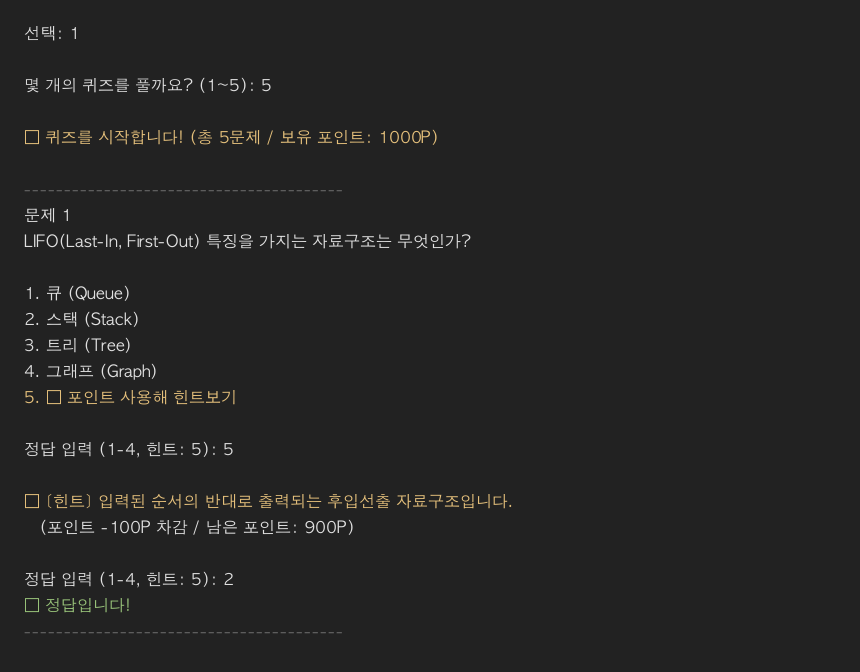
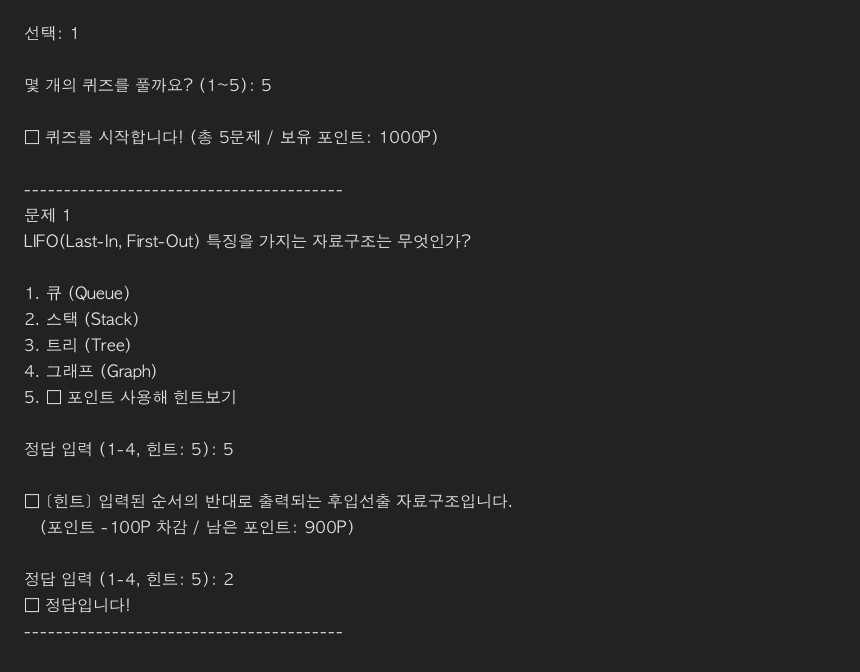
Style: 터미널 단일 기본 텍스트 색상(Plain monochrome)으로 스크린샷 4종 갱신

diff --git a/E1/2/README.md b/E1/2/README.md
@@ -10,20 +10,20 @@
 본 프로젝트는 Python 콘솔 기반의 인터랙티브 CS(Computer Science) 퀴즈 프로그램입니다.  
 단순한 일회성 프로그램을 넘어, **단일 책임 원칙(SRP)**에 따른 모듈화 구조와 **데이터 영속성**을 제공하며 다음과 같은 기술적 특징을 가지고 있습니다.
 
-* **외부 라이브러리 Zero (100% Standard Library)**: Python 3.10+ 순수 표준 라이브러리로만 구현
-* **모듈화 아키텍처 (Layered Architecture)**: 
-  * 최상위 진입점: `main.py`
-  * 도메인 logic 패키지: `components/` (`Quiz`, `QuizGame`, `BonusQuizGame`)
-  * 입출력 유틸리티 패키지: `utils/` (`InputUtils`, `OutputUtils`)
-* **I/O 렌더링 최적화**: 콘솔 출력을 1회 문자열 결합(`\n.join`) 후 단 1회 버퍼 출력하여 콘솔 I/O 시스템 콜 오버헤드 최소화
-* **강력한 데이터 영속성 & 자동 복구**: `state.json`을 통해 퀴즈 목록과 최고 점수를 유지하며, 파일 손상 시 기본 데이터로 자동 초기화/복구
+- **외부 라이브러리 Zero (100% Standard Library)**: Python 3.10+ 순수 표준 라이브러리로만 구현
+- **모듈화 아키텍처 (Layered Architecture)**:
+  - 최상위 진입점: `main.py`
+  - 도메인 logic 패키지: `components/` (`Quiz`, `QuizGame`, `BonusQuizGame`)
+  - 입출력 유틸리티 패키지: `utils/` (`InputUtils`, `OutputUtils`)
+- **I/O 렌더링 최적화**: 콘솔 출력을 1회 문자열 결합(`\n.join`) 후 단 1회 버퍼 출력하여 콘솔 I/O 시스템 콜 오버헤드 최소화
+- **강력한 데이터 영속성 & 자동 복구**: `state.json`을 통해 퀴즈 목록과 최고 점수를 유지하며, 파일 손상 시 기본 데이터로 자동 초기화/복구
 
 ---
 
 ## 💡 2. 퀴즈 주제 및 선정 이유
 
-* **주제**: CS (Computer Science) 기초 지식 (자료구조, 네트워크, DB, 운영체제, 알고리즘)
-* **선정 이유**: 개발자 입문 과정에서 컴퓨터 과학 핵심 기본기를 점검하고 체화하는 것이 무엇보다 중요하다고 판단하여 선정하였습니다.
+- **주제**: CS (Computer Science) 기초 지식 (자료구조, 네트워크, DB, 운영체제, 알고리즘)
+- **선정 이유**: 개발자 입문 과정에서 컴퓨터 과학 핵심 기본기를 점검하고 체화하는 것이 무엇보다 중요하다고 판단하여 선정하였습니다.
 
 ---
 
@@ -43,6 +43,7 @@ python main.py
 ```
 
 실행 시 게임 선택 메뉴가 표시됩니다:
+
 1. **기본 퀴즈 게임**: 저장된 문제를 순서대로 출제하는 기본 게임 모드
 2. **보너스 퀴즈 게임**: 문제 개수를 직접 선택하고 문제 순서를 **랜덤 출제**하는 확장 게임 모드
 
@@ -50,15 +51,15 @@ python main.py
 
 ## ⚙ 4. 주요 기능 명세
 
-| 기능 항목 | 상세 설명 |
-|---|---|
-| **🎯 퀴즈 풀기** | - 저장된 CS 퀴즈를 출제하고 정/오답 판정 및 백분율 점수 계산<br>- 최고 점수 달성 시 자동 갱신 및 파일 저장<br>- **보너스 게임**: 원하는 문제 개수 선택, `random` 출제 및 **💡 힌트 보기(포인트 차감)** 지원 |
-| **💡 힌트 & 포인트** | - 보너스 게임 플레이 중 `5`번 입력 시 힌트를 조회하고 포인트(기본 1,000P) 차감 후 동일 문항 재입력 복귀 |
-| **📌 퀴즈 추가** | - 문제 텍스트, 선택지 4개, 정답 번호, 선택 힌트를 입력받아 새 퀴즈 추가<br>- 입력 직후 `state.json` 데이터 영속 반영 |
-| **📋 퀴즈 목록** | - 현재 등록되어 있는 전체 CS 퀴즈 문항 목록 확인 |
-| **🗑 퀴즈 삭제** | - 등록된 퀴즈 문항 목록을 확인하고, 삭제할 번호를 선택하여 즉시 삭제 및 `state.json` 반영 |
-| **🏆 점수 확인** | - 저장된 최고 점수 및 당시 정답률(맞힌 문제 수 / 전체 문제 수) 확인 |
-| **📜 점수 히스토리** | - 최근 완료한 모든 게임의 일시(`timestamp`), 푼 문제 수, 정답 수, 점수를 기록 및 조회 |
+| 기능 항목             | 상세 설명                                                                                                                                                                                                               |
+| --------------------- | ----------------------------------------------------------------------------------------------------------------------------------------------------------------------------------------------------------------------- |
+| **🎯 퀴즈 풀기**      | - 저장된 CS 퀴즈를 출제하고 정/오답 판정 및 백분율 점수 계산<br>- 최고 점수 달성 시 자동 갱신 및 파일 저장<br>- **보너스 게임**: 원하는 문제 개수 선택, `random` 출제 및 **💡 힌트 보기(포인트 차감)** 지원             |
+| **💡 힌트 & 포인트**  | - 보너스 게임 플레이 중 `5`번 입력 시 힌트를 조회하고 포인트(기본 1,000P) 차감 후 동일 문항 재입력 복귀                                                                                                                 |
+| **📌 퀴즈 추가**      | - 문제 텍스트, 선택지 4개, 정답 번호, 선택 힌트를 입력받아 새 퀴즈 추가<br>- 입력 직후 `state.json` 데이터 영속 반영                                                                                                    |
+| **📋 퀴즈 목록**      | - 현재 등록되어 있는 전체 CS 퀴즈 문항 목록 확인                                                                                                                                                                        |
+| **🗑 퀴즈 삭제**      | - 등록된 퀴즈 문항 목록을 확인하고, 삭제할 번호를 선택하여 즉시 삭제 및 `state.json` 반영                                                                                                                               |
+| **🏆 점수 확인**      | - 저장된 최고 점수 및 당시 정답률(맞힌 문제 수 / 전체 문제 수) 확인                                                                                                                                                     |
+| **📜 점수 히스토리**  | - 최근 완료한 모든 게임의 일시(`timestamp`), 푼 문제 수, 정답 수, 점수를 기록 및 조회                                                                                                                                   |
 | **🛡 공통 예외 처리** | - 문자열 입력, 범위 밖 숫자, 빈 입력(Enter) 시 재입력 흐름 보장<br>- `Ctrl+C` (`KeyboardInterrupt`) / `EOFError` 시 데이터 안전 저장 후 안전 종료<br>- `state.json` 손상 또는 부재 시 기본 CS 데이터로 자동 복구/초기화 |
 
 ---
@@ -87,9 +88,9 @@ E1/2/
 
 ## 💾 6. 데이터 파일 설명 (`state.json`)
 
-* **파일 경로**: `E1/2/state.json` (프로젝트 루트)
-* **인코딩**: UTF-8
-* **역할**: 등록된 퀴즈 목록과 사용자의 최고 점수 데이터를 영속적으로 저장
+- **파일 경로**: `E1/2/state.json` (프로젝트 루트)
+- **인코딩**: UTF-8
+- **역할**: 등록된 퀴즈 목록과 사용자의 최고 점수 데이터를 영속적으로 저장
 
 ### 📄 데이터 필드 구조 (Schema)
 
@@ -124,29 +125,30 @@ E1/2/
 ```
 
 #### 필드 명세
-* **`quizzes`** (`list[dict]`): 등록된 퀴즈 객체 리스트
-  * `question` (`str`): 퀴즈 문제 텍스트
-  * `choices` (`list[str]`): 4개의 선택지 리스트
-  * `answer` (`int`): 정답 인덱스 (0-based)
-  * `hint_data` (`dict`, optional): 힌트 문구(`sentence`) 및 필요 포인트(`cost`) 정보
-* **`bestState`** (`dict`): 최고 점수 기록 정보
-  * `score` (`int`): 백분율 기준 최고 점수 (0~100)
-  * `correct` (`int`): 최고 점수 기록 시 맞힌 문제 수
-  * `total` (`int`): 최고 점수 기록 시 전체 문제 수
-* **`gameHistories`** (`list[dict]`): 플레이된 모든 게임 기록 목록
-  * `timestamp` (`str`): 게임 플레이 일시 (`YYYY-MM-DD HH:MM:SS`)
-  * `total_quiz_count` (`int`): 푼 문제 수
-  * `correct_quiz_count` (`int`): 맞힌 문제 수
-  * `score` (`int`): 백분율 기준 획득 점수 (0~100)
+
+- **`quizzes`** (`list[dict]`): 등록된 퀴즈 객체 리스트
+  - `question` (`str`): 퀴즈 문제 텍스트
+  - `choices` (`list[str]`): 4개의 선택지 리스트
+  - `answer` (`int`): 정답 인덱스 (0-based)
+  - `hint_data` (`dict`, optional): 힌트 문구(`sentence`) 및 필요 포인트(`cost`) 정보
+- **`bestState`** (`dict`): 최고 점수 기록 정보
+  - `score` (`int`): 백분율 기준 최고 점수 (0~100)
+  - `correct` (`int`): 최고 점수 기록 시 맞힌 문제 수
+  - `total` (`int`): 최고 점수 기록 시 전체 문제 수
+- **`gameHistories`** (`list[dict]`): 플레이된 모든 게임 기록 목록
+  - `timestamp` (`str`): 게임 플레이 일시 (`YYYY-MM-DD HH:MM:SS`)
+  - `total_quiz_count` (`int`): 푼 문제 수
+  - `correct_quiz_count` (`int`): 맞힌 문제 수
+  - `score` (`int`): 백분율 기준 획득 점수 (0~100)
 
 ---
 
 ## 📷 7. 실행 화면 스크린샷
 
-| 메뉴 화면 (`menu.png`) | 퀴즈 풀기 (`play.png`) |
-|:---:|:---:|
+|         메뉴 화면 (`menu.png`)          |         퀴즈 풀기 (`play.png`)          |
+| :-------------------------------------: | :-------------------------------------: |
 | ![메뉴 화면](docs/screenshots/menu.png) | ![퀴즈 풀기](docs/screenshots/play.png) |
 
-| 퀴즈 추가 (`add_quiz.png`) | 점수 및 히스토리 (`score.png`) |
-|:---:|:---:|
+|         퀴즈 추가 (`add_quiz.png`)          |         점수 및 히스토리 (`score.png`)          |
+| :-----------------------------------------: | :---------------------------------------------: |
 | ![퀴즈 추가](docs/screenshots/add_quiz.png) | ![점수 및 히스토리](docs/screenshots/score.png) |
